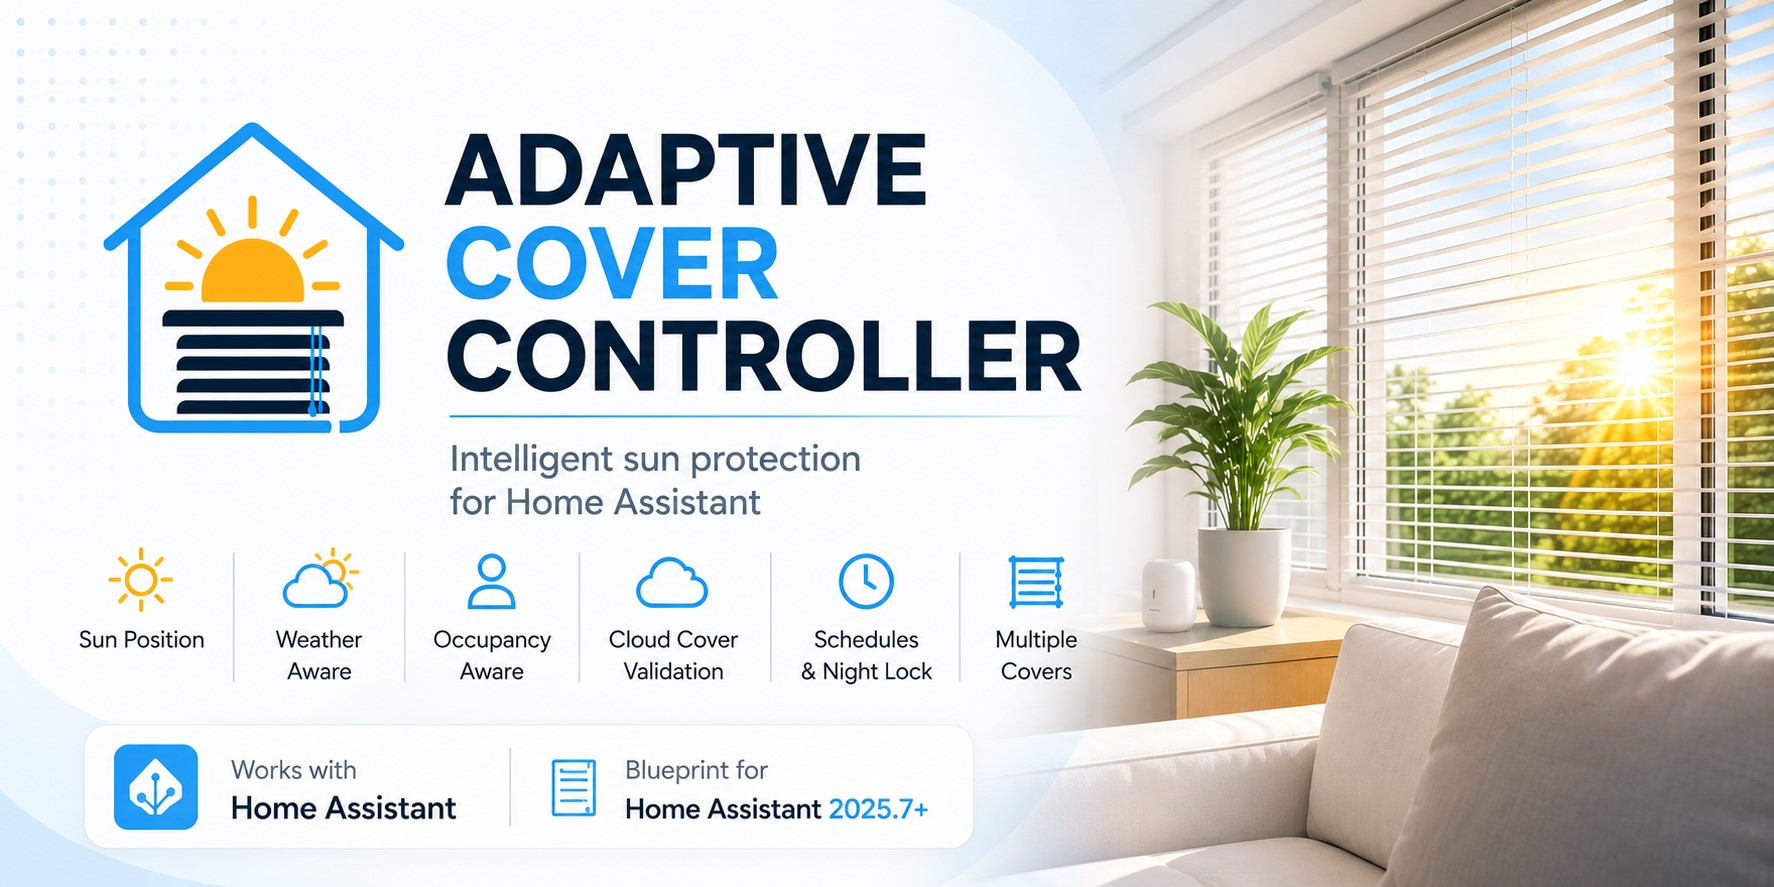
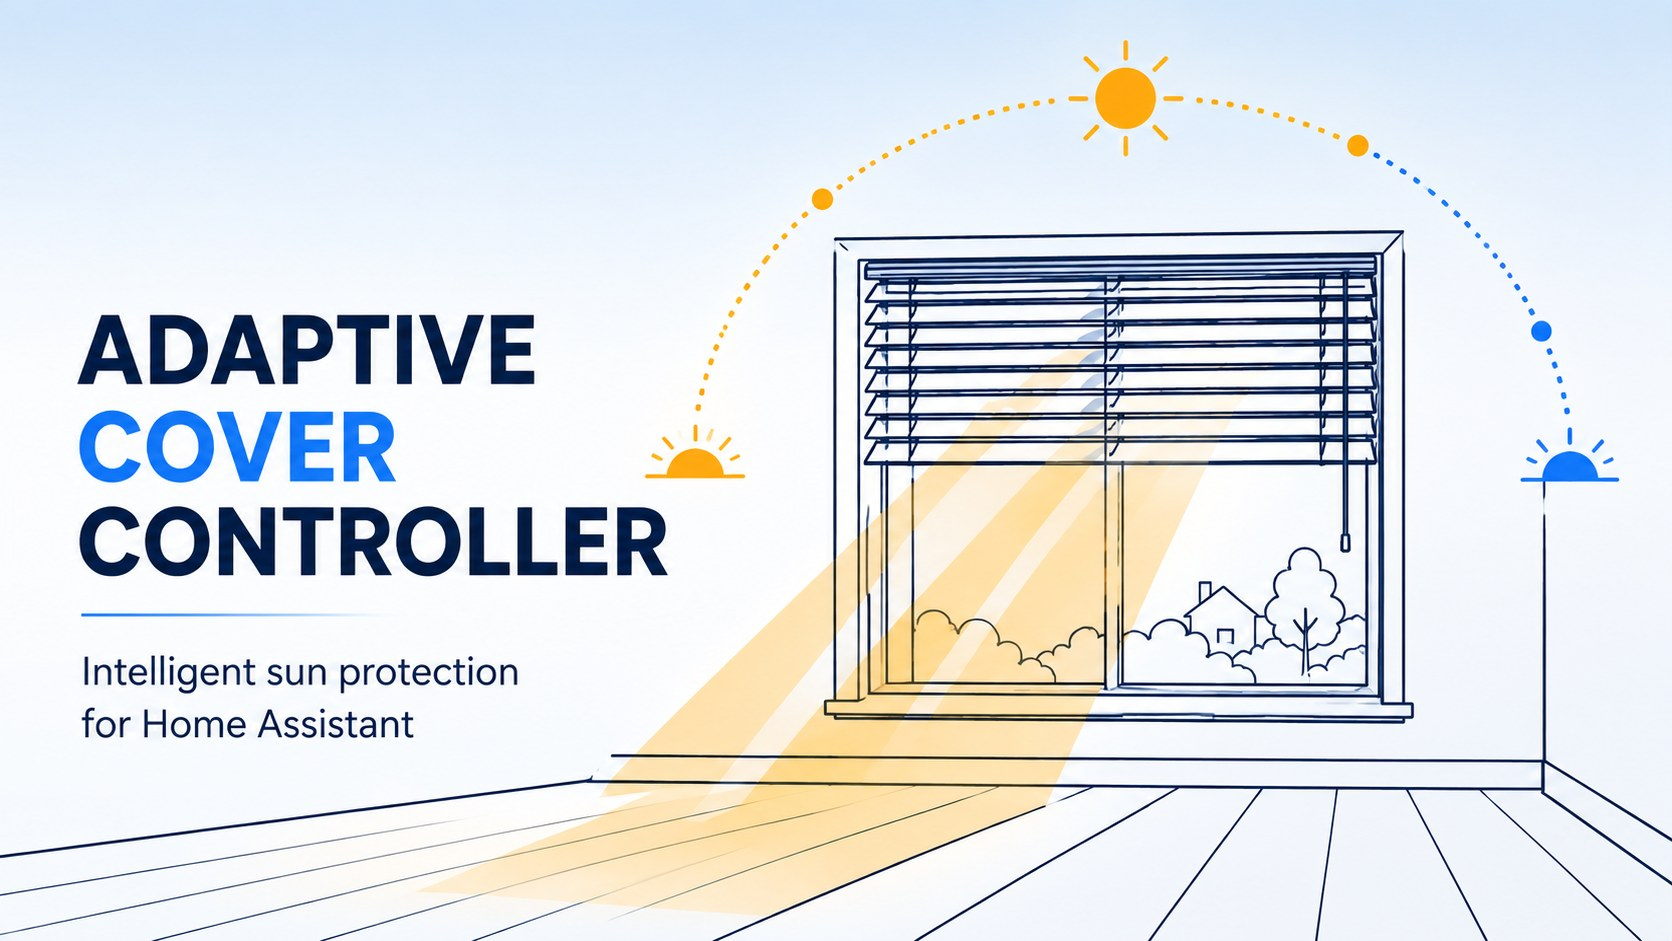
Release 2.2.0: sky obstruction rename, protection levels, manual override timeout  - Rename "Cloud Cover" to "Effective Sky Obstruction" throughout the UI   and docs. Underlying inputs unchanged, so existing automations don't   need reconfiguring. - Replace the boolean should-protect flag with a pro
Release 2.2.0: sky obstruction rename, protection levels, manual override timeout

- Rename "Cloud Cover" to "Effective Sky Obstruction" throughout the UI
  and docs. Underlying inputs unchanged, so existing automations don't
  need reconfiguring.
- Replace the boolean should-protect flag with a proper three-tier
  protection level (FULL / PARTIAL / NONE). Tilt-capable covers can now
  hold position and adjust tilt instead of fully reopening on light
  cloud.
- Add a configurable manual override timeout (default 120 min, 0 to
  disable) so control reliably returns to the automation instead of
  getting stuck in manual mode indefinitely.
- Fix manual override clearing itself almost immediately: the match
  check was comparing against its own overridden-state echo, which is
  tautologically always "matching." Now compares against what the
  automation would actually want, independent of override state.
- Fix several boolean variables rendering as literal "true"/"false"
  text instead of native booleans (only recoverable when produced via
  a bare {{ }} expression) — could silently force incorrect gate/
  override results whenever weather or occupancy validation was
  disabled.
- Fix a Home Assistant restart/integration reload being misread as a
  manual cover change.
- Update README: document new features, rewrite How It Works to match
  the new diagram, refresh banner and diagram assets.

diff --git a/README.md b/README.md
@@ -10,7 +10,7 @@
 
 Adaptive Cover Controller is a Home Assistant blueprint for automatically controlling curtains, blinds and shutters based on the sun's position.
 
-Protection is determined using the sun's azimuth and elevation, with optional weather, cloud cover, occupancy and schedule validation. Each cover runs as its own automation and can be configured independently.
+Protection is determined using the sun's azimuth and elevation, with optional weather, effective sky obstruction, occupancy and schedule validation. Each cover runs as its own automation and can be configured independently.
 
 ---
 
@@ -49,13 +49,14 @@ Reload Blueprints and create a new automation using **Adaptive Cover Controller*
 
 - Sun position control using azimuth and elevation
 - Optional weather validation
-- Optional cloud cover validation with hysteresis
+- Optional effective sky obstruction validation with hysteresis — accepts a plain cloud-cover-percentage sensor, or a more sophisticated computed obstruction sensor if you have one
 - Optional occupancy validation
+- Three-tier protection level (FULL / PARTIAL / NONE) — tilt-capable covers can hold position and adjust tilt instead of fully opening on light cloud
+- Adaptive tilt for Venetian blinds, reacting continuously to live sky obstruction
 - Scheduled opening
 - Night lock
-- Manual override detection
+- Manual override detection, with a configurable timeout to automatically resume automatic control
 - Automatic recovery after Home Assistant restarts
-- Tilt support for Venetian blinds
 - Individual configuration for every cover
 
 ---
@@ -73,7 +74,7 @@ The blueprint is organised into the following sections:
 - Manual Override
 - Occupancy
 - Weather Validation
-- Cloud Cover
+- Effective Sky Obstruction
 - Blind Features
 - Advanced
 
@@ -89,6 +90,8 @@ manual
 
 Do not share the same helper between multiple covers.
 
+A manual change is detected automatically and pauses the automation until either the cover is returned to the position the automation would choose, or the configured **Manual override timeout** elapses — whichever comes first. Set the timeout to `0` to disable it and require a matching position to resume automatically.
+
 ---
 
 ## Blueprint
@@ -101,17 +104,21 @@ Do not share the same helper between multiple covers.
 
 ## How It Works
 
-Adaptive Cover Controller continuously evaluates the sun's position together with any enabled validation modules.
+Sun position, weather validation and occupancy validation form a single gate. If any of them fail, the cover fully opens (or stays open) — no further checks are needed.
 
-When all configured conditions are satisfied, the cover moves to the configured protection position.
+Once the gate passes, effective sky obstruction sets the protection level:
 
-When protection is no longer required, the cover automatically returns to its normal position.
+- **FULL** — obstruction is low enough that full sun protection is needed. The cover moves to its protection position (and, for tilt-capable covers, its protection tilt).
+- **PARTIAL** — tilt-capable covers only. Obstruction has risen, but the sun is still in the configured window, so the cover stays in position rather than fully reopening — only the tilt angle adjusts, continuously, to the live reading. Covers without tilt don't have this middle state; they simply reopen once obstruction rises far enough.
+- **NONE** — either the gate failed, or (for covers without tilt) obstruction is high enough that protection isn't needed at all.
+
+Before any movement happens — protecting or returning — the automation checks that the cover is idle, isn't currently held in manual override, and that Home Assistant is fully running. Returning to the normal position additionally respects the configured opening schedule and night lock.
+
+To avoid unnecessary movement, commands are only sent when the requested position or tilt differs from the current state.
 
 <p align="center">
 <img src="images/how-it-works.png" width="1000">
 </p>
-
-To avoid unnecessary movement, commands are only sent when the requested position or tilt differs from the current state.
 
 ---
 
